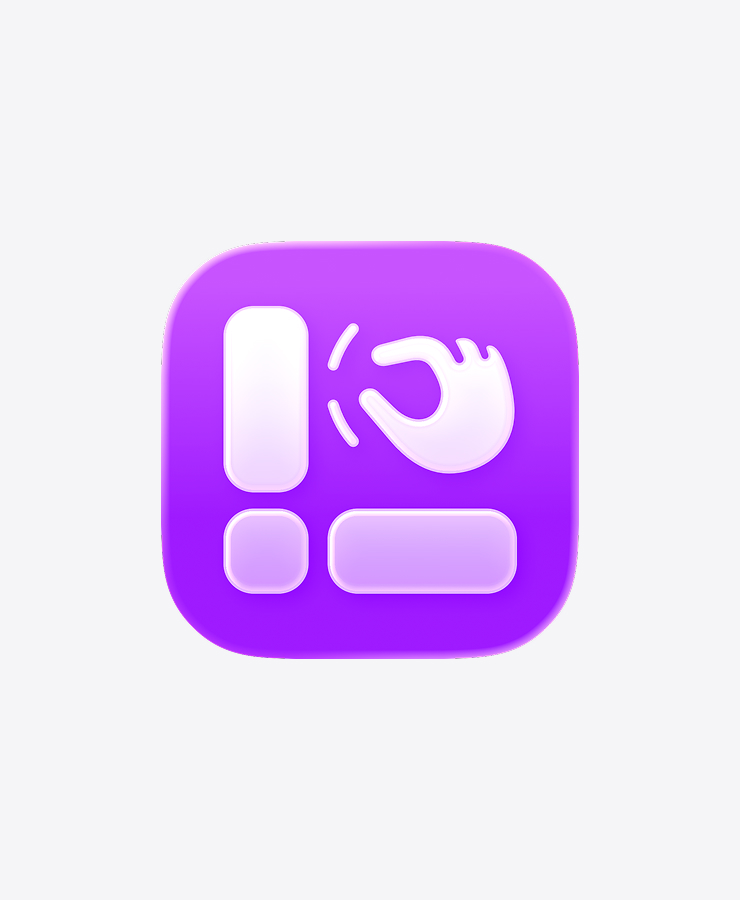
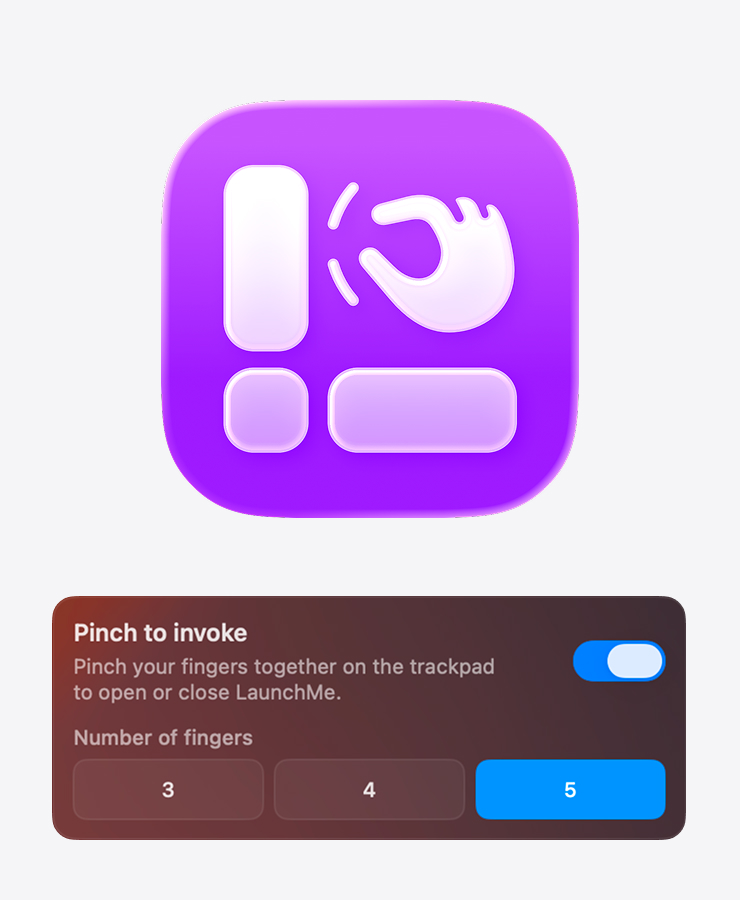
New cards in carusel

diff --git a/index.html b/index.html
@@ -443,6 +443,10 @@
             </div>
             <div class="ai-vi__track" data-vi-track>
                 <article class="vi-card vi-card--narrow">
+                    <div class="vi-card__media ai-media"><img src="/images/Carusel%202/delete-app.jpg" alt=""></div>
+                    <p class="vi-card__text"><strong>Clean Uninstall.</strong> Remove the app from Mac and clean leftover settings, cache, and related traces. Files will be moved to Trash so you can restore them later or completely delete.</p>
+                </article>
+                <article class="vi-card vi-card--narrow">
                     <div class="vi-card__media ai-media"><img src="/images/Carusel%202/carusel-sorting.jpg" alt=""></div>
                     <p class="vi-card__text"><strong>Smart sorting.</strong> Arrange apps by name, group in folders automaticaly, or restore your Launchpad layout.</p>
                 </article>
@@ -663,7 +667,7 @@
                     </article>
                     <article class="lm-feature-tile">
                         <img class="lm-feature-icon" src="/images/features/languages-icon.svg" alt="Support languages icon">
-                        <h3 class="lm-feature-title">Support<br>12 languages</h3>
+                        <h3 class="lm-feature-title">Support<br>18 languages</h3>
                     </article>
                     <article class="lm-feature-tile">
                         <img class="lm-feature-icon" src="/images/features/icloud-icon.svg" alt="iCloud sync icon">

diff --git a/pricing/index.html b/pricing/index.html
@@ -295,7 +295,7 @@
                     </article>
                     <article class="lm-feature-tile">
                         <img class="lm-feature-icon" src="/images/features/languages-icon.svg" alt="Support languages icon">
-                        <h3 class="lm-feature-title">Support<br>12 languages</h3>
+                        <h3 class="lm-feature-title">Support<br>18 languages</h3>
                     </article>
                     <article class="lm-feature-tile">
                         <img class="lm-feature-icon" src="/images/features/icloud-icon.svg" alt="iCloud sync icon">